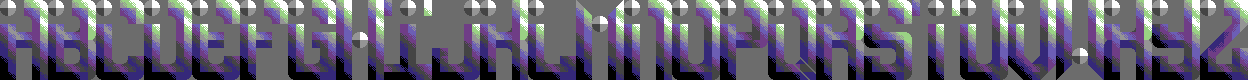
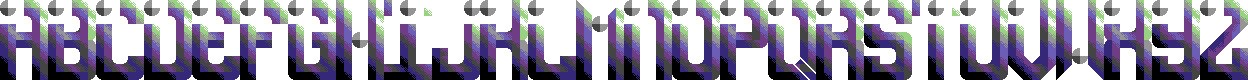
Deekay fixes

diff --git a/js/fonts.js b/js/fonts.js
@@ -649,11 +649,7 @@
   format: 'Hires with Rasterbars',
   maker: 'Cupid',
   makerlink: 'http://csdb.dk/scener/?id=8137',
-  height:15,
-  a:[0,15],b:[16,15],c:[32,15],d:[48,15],e:[64,15],f:[80,14],g:[96,15],
-  h:[112,15],i:[131,10],j:[144,15],k:[160,15],l:[176,15],m:[192,15],
-  n:[208,15],o:[224,15],p:[240,14],q:[256,15],r:[272,15],s:[288,15],t:[305,14],
-  u:[320,15],v:[337,13],w:[352,15],x:[368,15],y:[384,15],z:[400,15]
+  "height":15,"a":[0,14],"b":[15,15],"c":[31,15],"d":[47,15],"e":[63,15],"f":[79,14],"g":[95,15],"h":[111,15],"i":[130,10],"j":[143,15],"k":[159,15],"l":[175,15],"m":[191,15],"n":[207,15],"o":[223,15],"p":[239,14],"q":[255,15],"r":[271,15],"s":[287,15],"t":[304,14],"u":[319,15],"v":[336,13],"w":[351,15],"x":[367,15],"y":[383,15],"z":[399,15]
   },
   cpx4:{
   product:'Untouchable II',
@@ -874,7 +870,7 @@
   maker:'Cupid',
   makerlink: 'http://csdb.dk/scener/?id=8137',
   height:24,
-  a:[0,22],b:[24,21],c:[47,23],d:[72,22],e:[96,22],f:[120,22],g:[144,22],
+  a:[0,22],b:[24,22],c:[48,22],d:[72,22],e:[96,22],f:[120,22],g:[144,22],
   h:[168,22],i:[192,22],j:[216,22],k:[240,22],l:[264,22],m:[288,22],
   n:[313,22],o:[337,22],p:[361,22],q:[385,22],r:[409,22],s:[433,22],
   t:[457,22],v:[481,22],u:[505,22],w:[529,22],x:[553,22],y:[577,22],

diff --git a/tools/rip.html b/tools/rip.html
@@ -6,7 +6,7 @@
   <link rel="stylesheet" href="../styles/logogen.css">
 </head>
 <body>
-<img src="../img/fonts/diart2.png" alt="" id="fonts">
+<img src="../img/fonts/tostretch.png" alt="" id="fonts">
 
 <script>
 window.addEventListener('load', function(){
@@ -22,7 +22,7 @@ window.addEventListener('load', function(){
   var offset = 0;
   var startpoint = [0,0];
   var green = {r:63,b:67,g:255,a:255};
-  var green = {r:62,b:67,g:255,a:255};
+  var green = {r:59,b:65,g:255,a:255};
  
 // var green = {r:0,b:73,g:255,a:255};
   // var green = {r:75,g:253,b:81,a:255};
@@ -32,7 +32,7 @@ window.addEventListener('load', function(){
   var letters = `abcdefghijklmnopqrstuvwxyz!-0123456789:;?`.split('');
   var letters = `abcdefghijklmnopqrstuvwxyz-.!'()`.split('');
   var letters = `abcdefghijklmnopqrstuvwxyz()!"'=?:;*+,-./0123456789`.split('');
-  var letters = `abcdefghijklmnopqrstuvwxyz!',.`.split('');
+  var letters = `abcdefghijklmnopqrstuvwxyz`.split('');
   var fontdata = {};  
   fontdata.height = c.height;
 
